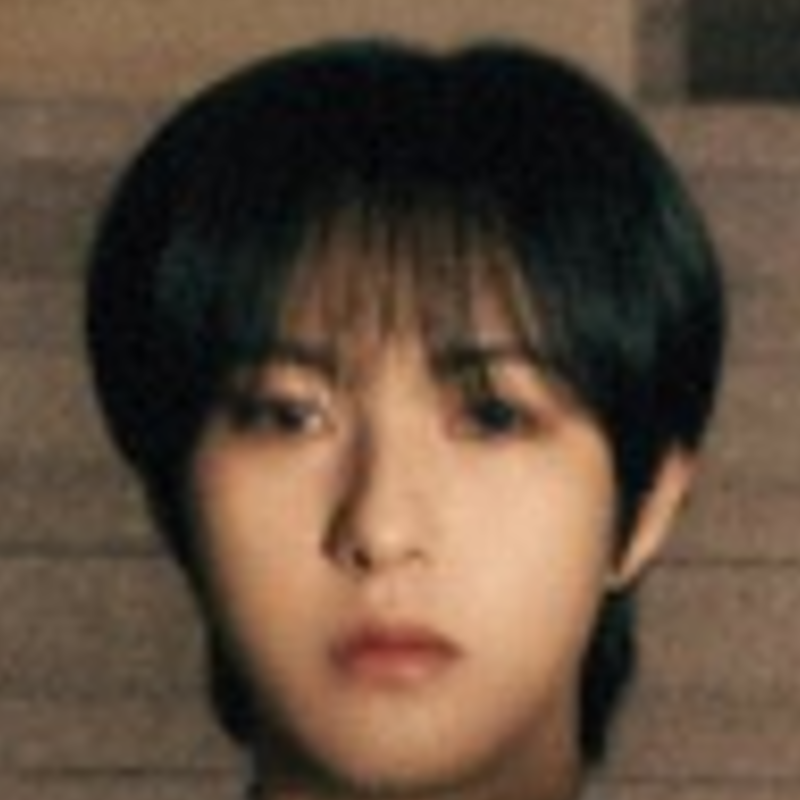
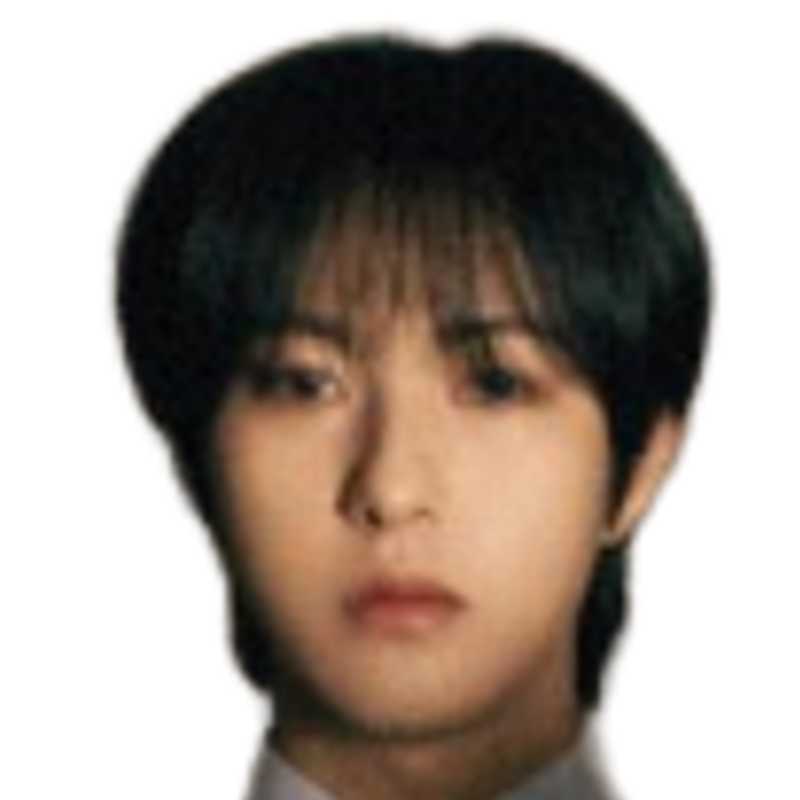
Update icantfeelanything photos

diff --git a/js/ranking.js b/js/ranking.js
@@ -4,7 +4,7 @@
 /* ========================================= */
 
 /* Bump when the avatar images change, to bust the browser/Pages cache. */
-const PHOTO_VER = 40;
+const PHOTO_VER = 41;
 window.PHOTO_VER = PHOTO_VER;
 
 const Ranking = {
